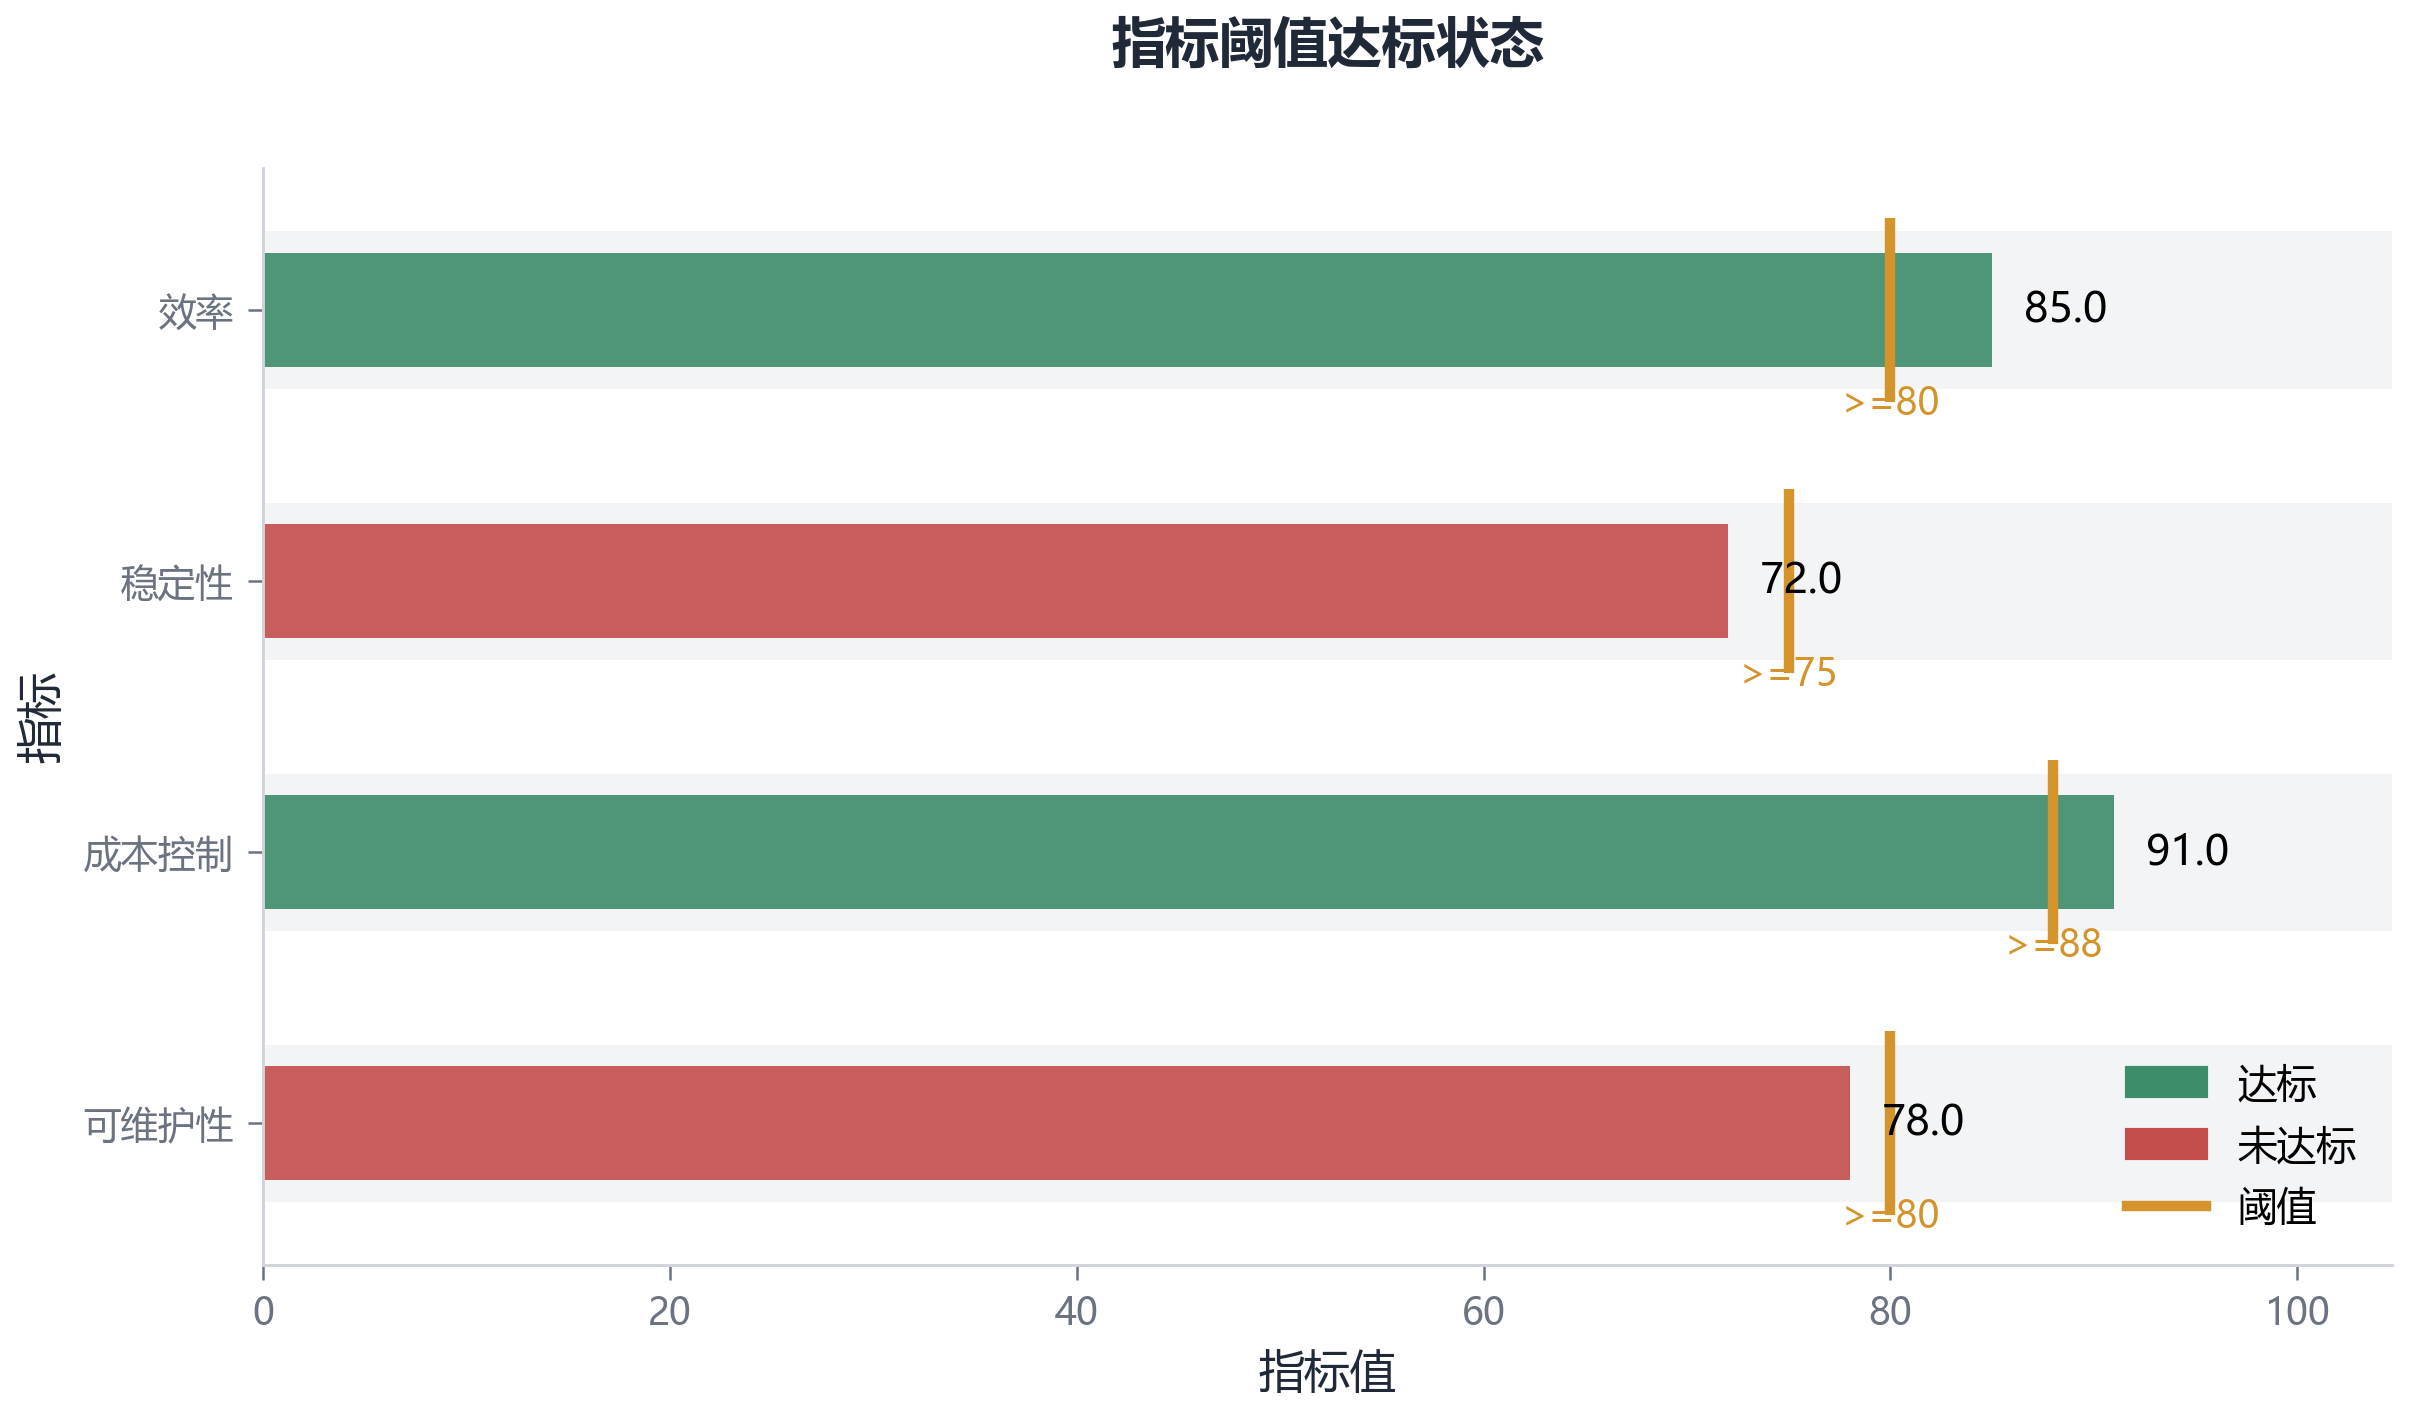
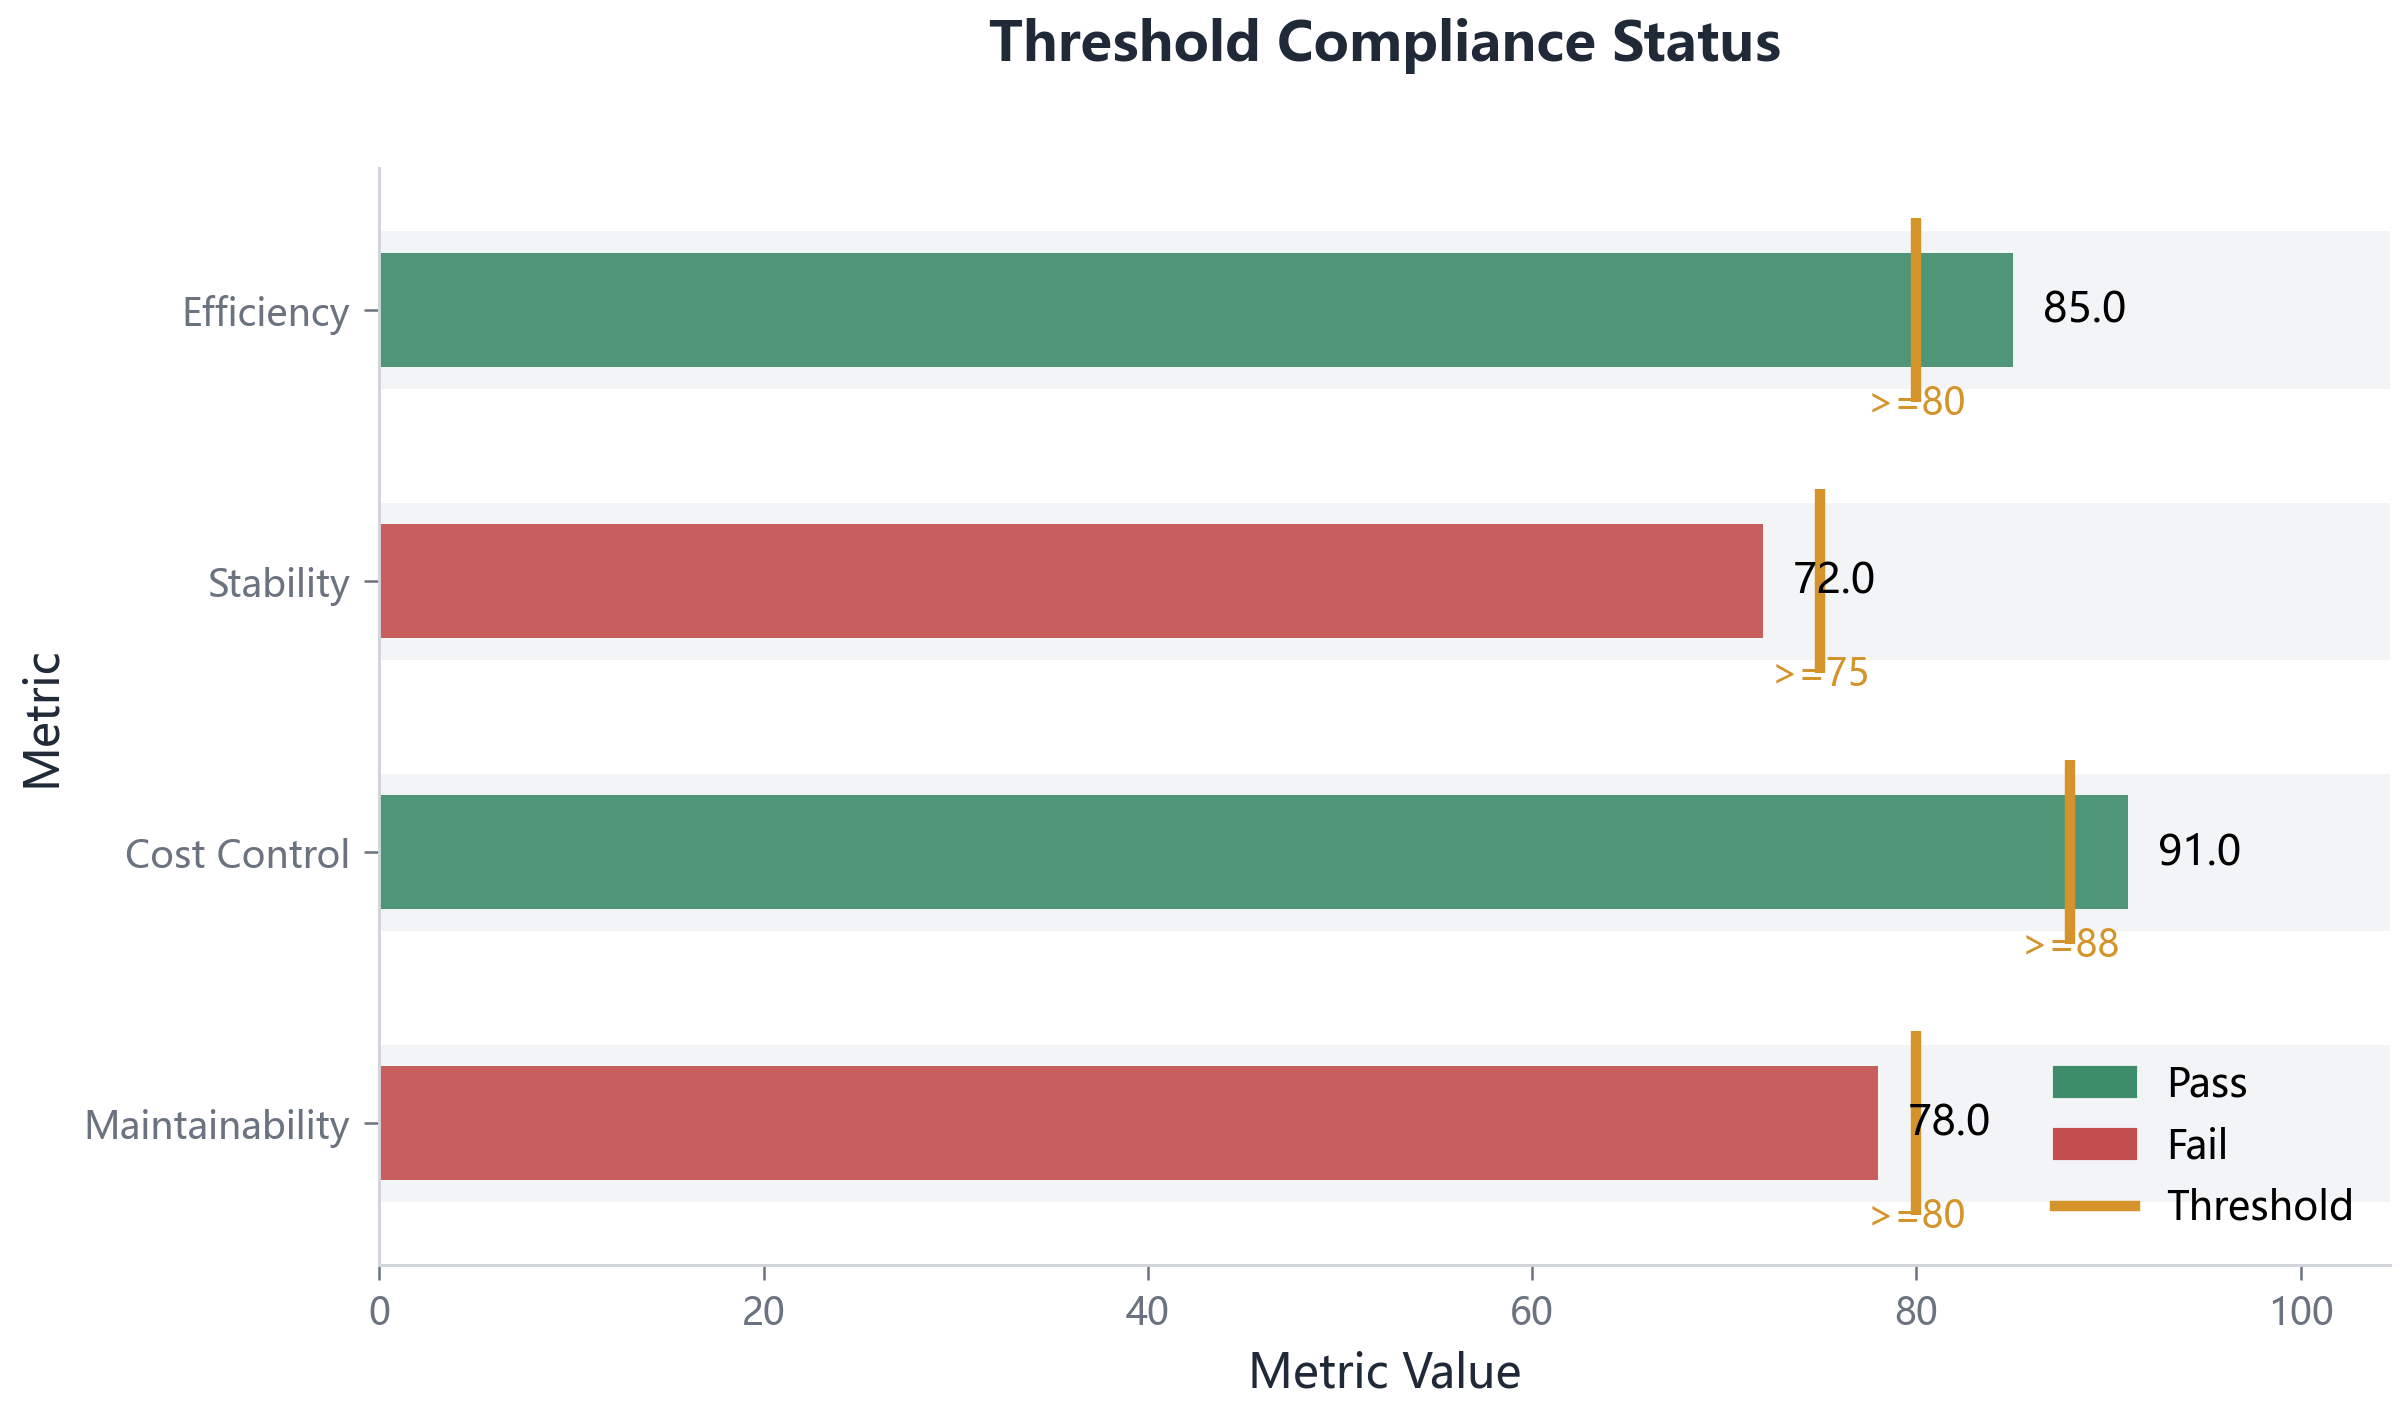
docs: regenerate chart images with grid lines, English titles, old palette

diff --git a/README.md b/README.md
@@ -77,7 +77,7 @@ print(result.report.status)  # "pass"
 |:---:|:---:|:---:|
 | ![contour](gallery/showcase/contour.png) | ![waterfall](gallery/showcase/waterfall.png) | ![dumbbell](gallery/showcase/dumbbell.png) |
 
-| Bullet / 子弹图 | Supply-Demand / 供需平衡 | Small Multiples / 小多图 |
+| Bullet | Supply-Demand Balance | Small Multiples |
 |:---:|:---:|:---:|
 | ![bullet](gallery/showcase/bullet.png) | ![supply_demand](gallery/showcase/supply_demand.png) | ![small_multiples](gallery/showcase/small_multiples.png) |
 
